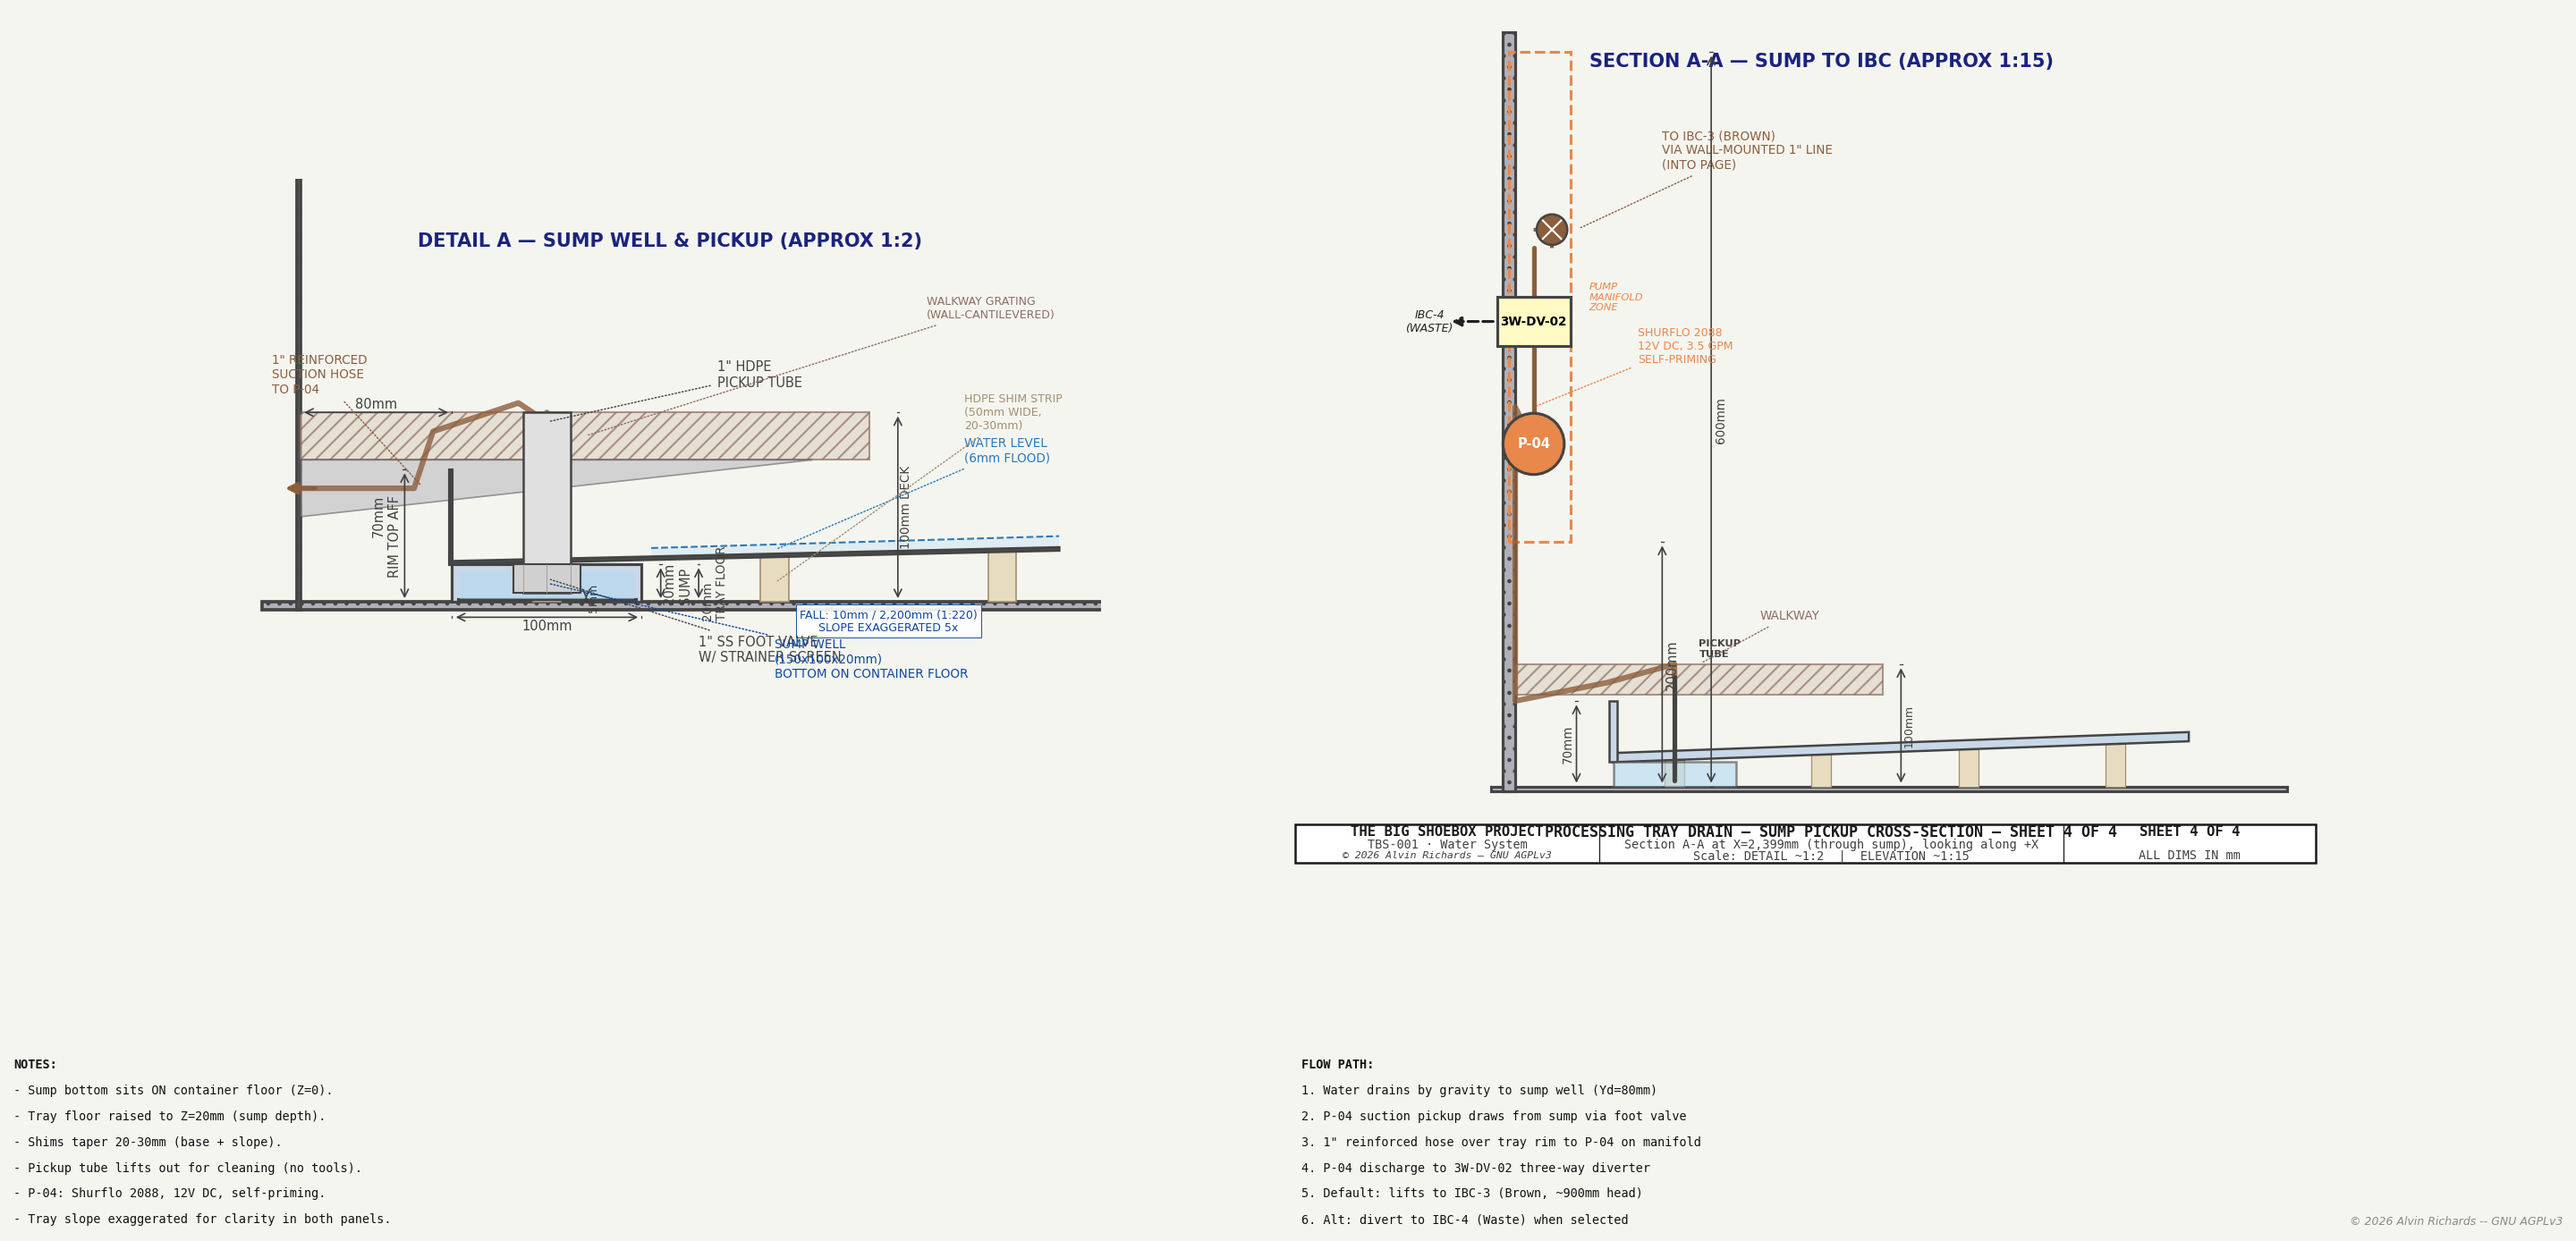
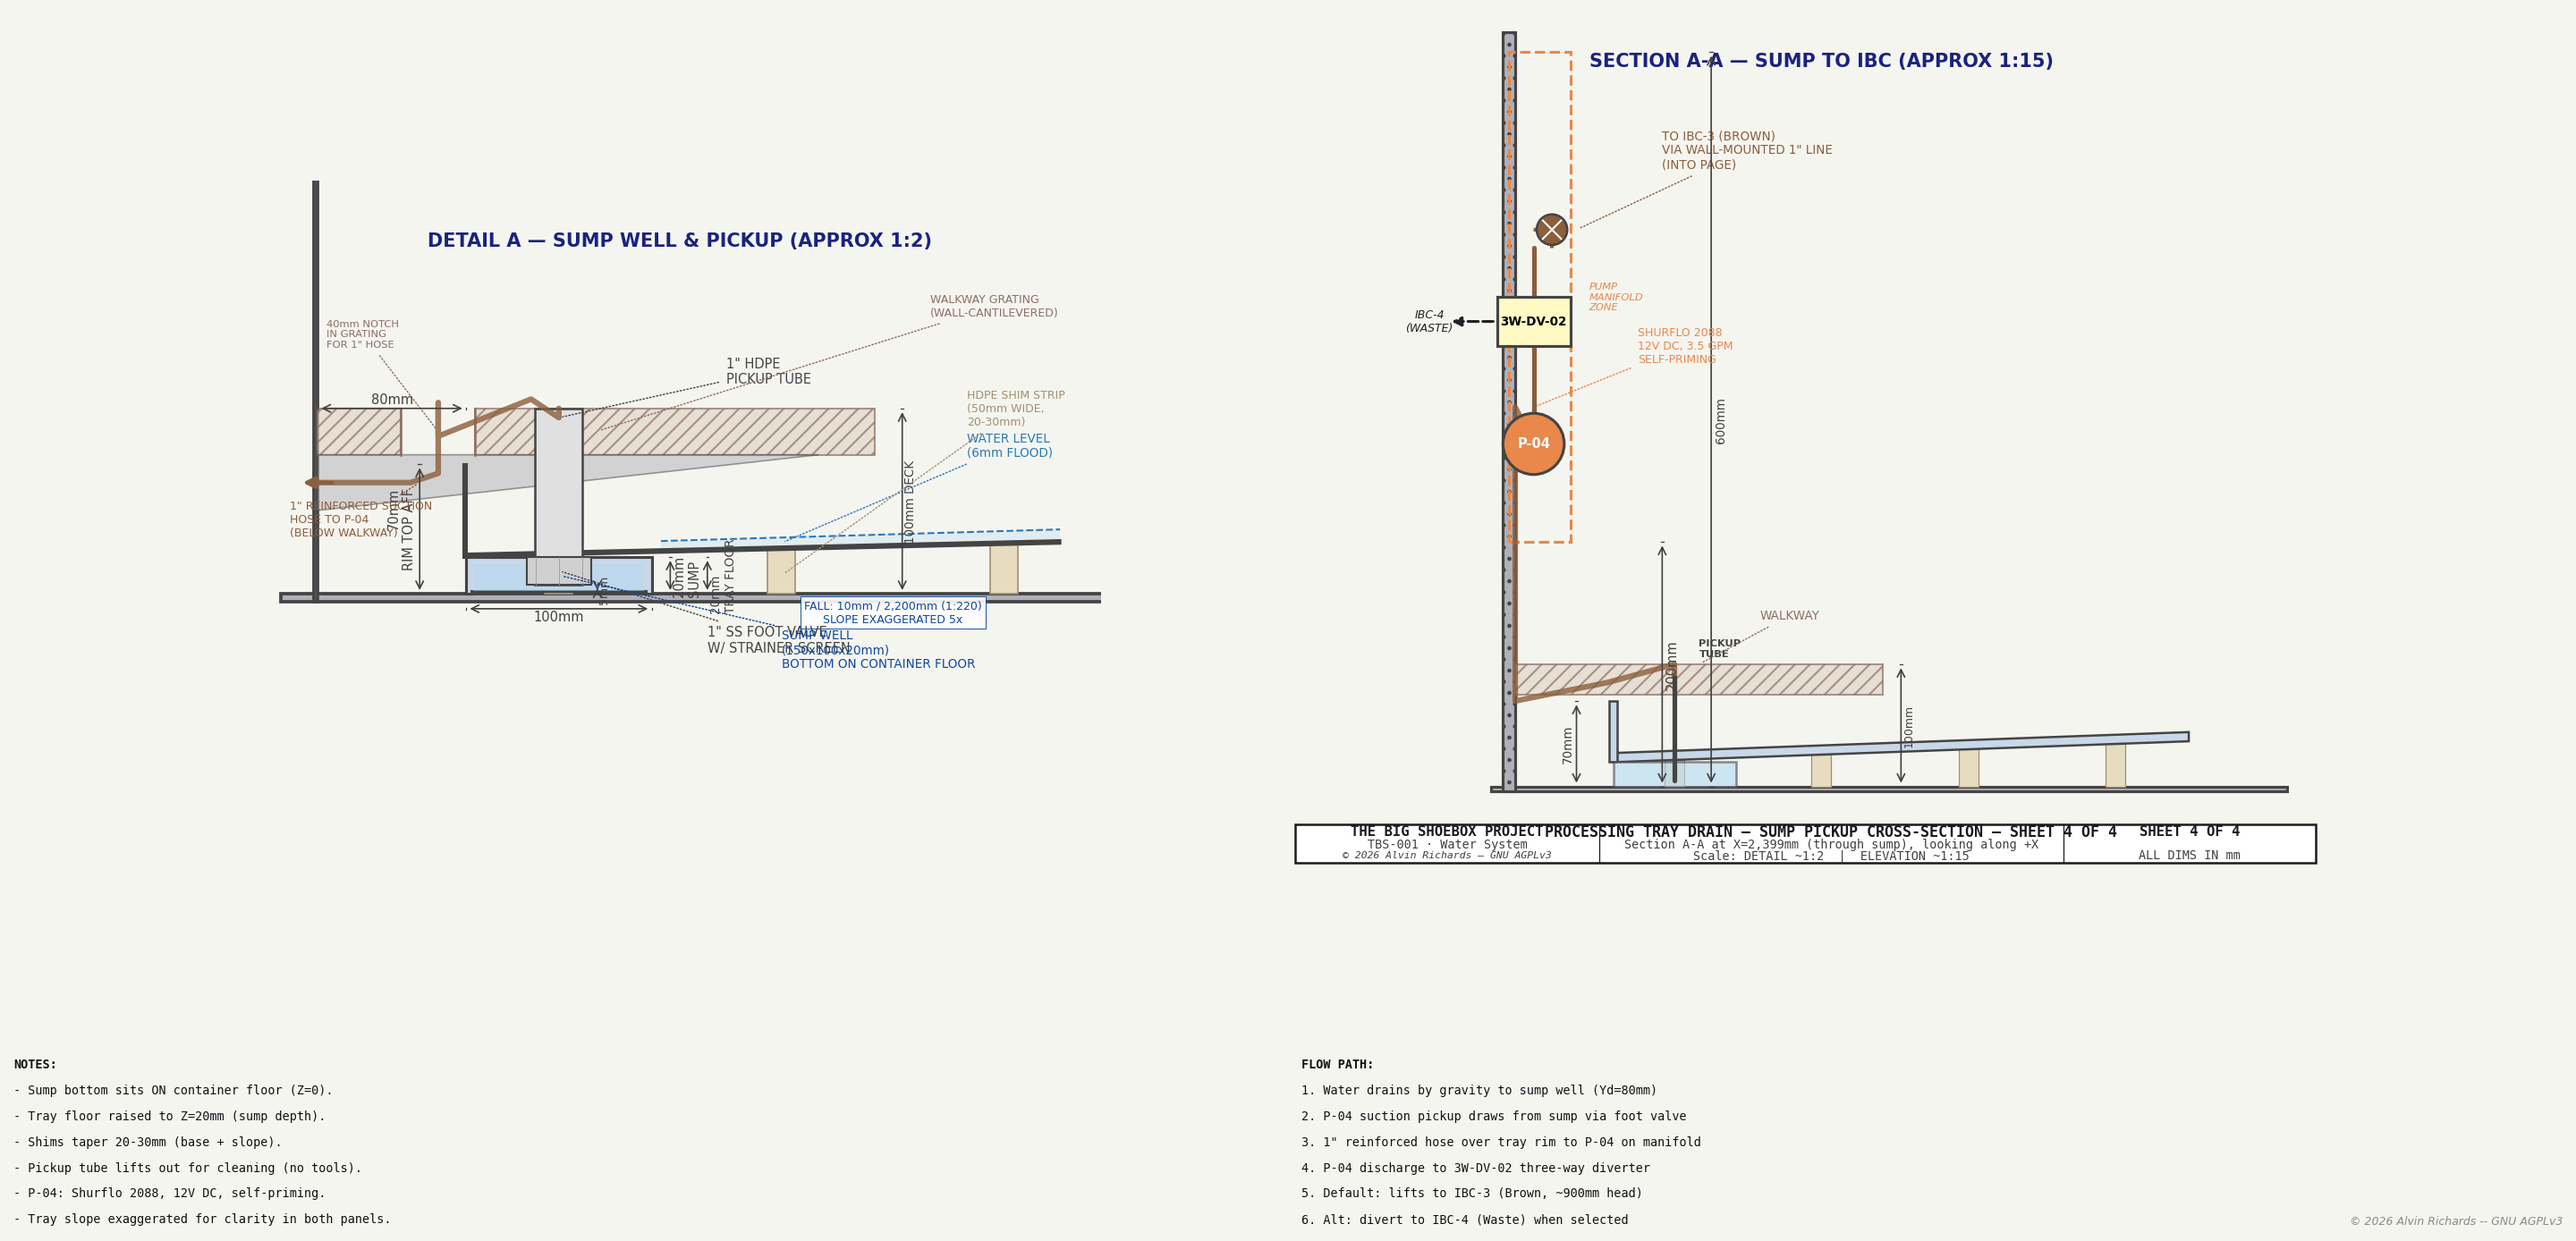
Detail A: show hose passing through notch in walkway grating
Suction hose now routes over tray rim, down through a 40mm notch
cut in walkway grating, then below walkway to P-04 on manifold.
Walkway drawn as two grating sections with labeled notch opening.

diff --git a/generate_water_system.py b/generate_water_system.py
@@ -961,8 +961,8 @@ def sa_y(yd_mm):
 def sa_z(z_mm):
     return OA_Y + z_mm / SC_A
 
-ax4a.set_xlim(sa_y(-30) - 0.5, sa_y(420) + 1.0)
-ax4a.set_ylim(sa_z(-50) - 0.5, sa_z(220) + 1.5)
+ax4a.set_xlim(sa_y(-40) - 0.5, sa_y(420) + 1.0)
+ax4a.set_ylim(sa_z(-55) - 0.5, sa_z(220) + 1.5)
 
 # Panel A title
 ax4a.text(sa_y(195), sa_z(195), "DETAIL A — SUMP WELL & PICKUP (APPROX 1:2)",
@@ -1086,26 +1086,38 @@ for sy_m in range(3):
              [sa_z(tube_z_bot), sa_z(tube_z_bot + foot_valve_h)],
              color="#999999", lw=0.4, zorder=8)
 
-# ── Suction hose from tube top, over rim, toward wall ────────────────────────
-# Flexible hose curves over the rim and routes to pump manifold
+# ── Walkway & hose pass-through constants ────────────────────────────────────
+WK_DECK_H = 100
+WK_GRATE_T = 25
+
+# ── Suction hose from tube top, over rim, through walkway to pump ────────────
+# Flexible hose curves over the rim, drops through a hole in the walkway
+# grating, and routes along the wall to P-04 on the manifold below.
 hose_color = C_BROWN
 hose_lw = 3.0
 
-# Hose path: tube top → up → bend over rim → down outside rim → toward wall
-# Simplified as a series of line segments
-hose_pts_y = [tube_yd, tube_yd, tube_yd - 15, tray_yd_near - 10,
-              tray_yd_near - 20, 0]
-hose_pts_z = [tube_z_top, RIM_TOP + 25, RIM_TOP + 35, RIM_TOP + 20,
-              RIM_TOP - 10, RIM_TOP - 10]
+# Hose pass-through position in walkway
+HOSE_PASS_YD = tray_yd_near - 15  # ~65mm — just outside the rim
+HOSE_PASS_Z_TOP = WK_DECK_H       # top of walkway grating = 100mm
+HOSE_PASS_Z_BOT = WK_DECK_H - WK_GRATE_T  # bottom of grating = 75mm
+
+# Hose path: tube top → up → bend over rim → down through walkway → below
+hose_pts_y = [tube_yd, tube_yd, tube_yd - 15,
+              HOSE_PASS_YD, HOSE_PASS_YD,
+              HOSE_PASS_YD, HOSE_PASS_YD - 15, 0]
+hose_pts_z = [tube_z_top, RIM_TOP + 25, RIM_TOP + 35,
+              RIM_TOP + 15, HOSE_PASS_Z_TOP + 3,
+              HOSE_PASS_Z_BOT - 10, HOSE_PASS_Z_BOT - 15,
+              HOSE_PASS_Z_BOT - 15]
 ax4a.plot([sa_y(y) for y in hose_pts_y], [sa_z(z) for z in hose_pts_z],
-         color=hose_color, lw=hose_lw, solid_capstyle="round", zorder=5,
+         color=hose_color, lw=hose_lw, solid_capstyle="round", zorder=8,
          alpha=0.8)
-# Arrow at wall end
-ax4a.annotate("", xy=(sa_y(-10), sa_z(RIM_TOP - 10)),
-             xytext=(sa_y(10), sa_z(RIM_TOP - 10)),
+# Arrow at wall end (below walkway, heading to pump manifold)
+ax4a.annotate("", xy=(sa_y(-10), sa_z(HOSE_PASS_Z_BOT - 15)),
+             xytext=(sa_y(10), sa_z(HOSE_PASS_Z_BOT - 15)),
              arrowprops=dict(arrowstyle="-|>", color=hose_color, lw=2.0,
                              mutation_scale=12),
-             zorder=5)
+             zorder=8)
 
 # ── Water surface in tray (away from sump) ───────────────────────────────────
 FLOOD_DEPTH = 6
@@ -1120,18 +1132,43 @@ ax4a.plot([sa_y(sump_yd_end + 5), sa_y(tray_yd_far_view)],
          [sa_z(water_z_left + 1), sa_z(water_z_right)],
          color=C_BLUE, lw=1.0, ls="--", zorder=5)
 
-# ── Walkway grate ────────────────────────────────────────────────────────────
-WK_DECK_H = 100
-WK_GRATE_T = 25
-ax4a.add_patch(plt.Rectangle((sa_y(0), sa_z(WK_DECK_H - WK_GRATE_T)),
-              WALKWAY_W / SC_A, WK_GRATE_T / SC_A,
+# ── Walkway grate (with pipe pass-through notch) ────────────────────────────
+NOTCH_HW = 20  # half-width of the pipe notch in Yd
+
+# Grating LEFT of notch (wall side: Yd=0 to notch left edge)
+notch_left = HOSE_PASS_YD - NOTCH_HW
+notch_right = HOSE_PASS_YD + NOTCH_HW
+if notch_left > 0:
+    ax4a.add_patch(plt.Rectangle((sa_y(0), sa_z(WK_DECK_H - WK_GRATE_T)),
+                  notch_left / SC_A, WK_GRATE_T / SC_A,
+                  fc="#E0D6C8", ec="#8D6E63", lw=1.0, hatch="///", zorder=3,
+                  alpha=0.7))
+
+# Grating RIGHT of notch (notch right edge to walkway outer edge)
+ax4a.add_patch(plt.Rectangle((sa_y(notch_right), sa_z(WK_DECK_H - WK_GRATE_T)),
+              (WALKWAY_W - notch_right) / SC_A, WK_GRATE_T / SC_A,
               fc="#E0D6C8", ec="#8D6E63", lw=1.0, hatch="///", zorder=3,
               alpha=0.7))
+
+# Notch opening (gap in grating — white background visible)
+# Draw notch edges for clarity
+ax4a.plot([sa_y(notch_left), sa_y(notch_left)],
+         [sa_z(WK_DECK_H - WK_GRATE_T), sa_z(WK_DECK_H)],
+         color="#8D6E63", lw=1.2, zorder=4)
+ax4a.plot([sa_y(notch_right), sa_y(notch_right)],
+         [sa_z(WK_DECK_H - WK_GRATE_T), sa_z(WK_DECK_H)],
+         color="#8D6E63", lw=1.2, zorder=4)
+
 # Bracket arm (triangle)
 ax4a.fill([sa_y(0), sa_y(0), sa_y(WALKWAY_W * 0.9)],
           [sa_z(WK_DECK_H - WK_GRATE_T), sa_z(WK_DECK_H - WK_GRATE_T - 30),
            sa_z(WK_DECK_H - WK_GRATE_T)],
           fc="#B0B0B8", ec=C_FRAME, lw=0.8, zorder=3, alpha=0.5)
+
+# Pipe pass-through label
+leader(ax4a, sa_y(HOSE_PASS_YD), sa_z(WK_DECK_H - WK_GRATE_T/2),
+       sa_y(HOSE_PASS_YD - 60), sa_z(WK_DECK_H + 40),
+       f"40mm NOTCH\nIN GRATING\nFOR 1\" HOSE", fs=5.5, color="#8D6E63")
 
 # ── Detail dimensions ────────────────────────────────────────────────────────
 # Rim top to floor
@@ -1172,9 +1209,9 @@ leader(ax4a, sa_y(tube_yd), sa_z(tube_z_top - 5),
        sa_y(tube_yd + 90), sa_z(120),
        "1\" HDPE\nPICKUP TUBE", fs=7, color=C_FRAME)
 
-leader(ax4a, sa_y(tray_yd_near - 15), sa_z(RIM_TOP - 10),
-       sa_y(-15), sa_z(RIM_TOP + 50),
-       "1\" REINFORCED\nSUCTION HOSE\nTO P-04", fs=6.5, color=C_BROWN)
+leader(ax4a, sa_y(HOSE_PASS_YD - 10), sa_z(HOSE_PASS_Z_BOT - 15),
+       sa_y(-15), sa_z(HOSE_PASS_Z_BOT - 35),
+       "1\" REINFORCED SUCTION\nHOSE TO P-04\n(BELOW WALKWAY)", fs=6, color=C_BROWN)
 
 leader(ax4a, sa_y(sump_yd_start + PROC_TRAY_SUMP_D/2), sa_z(TRAY_BASE_Z / 2),
        sa_y(250), sa_z(-30),
